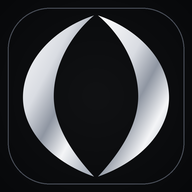
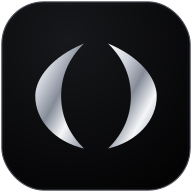
Add files via upload

diff --git a/app.js b/app.js
@@ -73,7 +73,7 @@
     const ownPosts=socialPosts.filter(p=>p.uid===currentUser.uid);
     const xp=data.workouts.length*35+data.steps.reduce((a,x)=>a+Math.floor(Number(x.count||0)/1000),0)+data.foods.length*5;
     const level=Math.max(1,Math.floor(xp/100)+1),next=level*100,progress=xp%100;
-    if(tab==='home'){const allFeedPosts=homeFeedMode==='following'?socialPosts.filter(p=>p.uid===currentUser.uid||socialFollowing.includes(p.uid)):socialPosts;const feedPosts=allFeedPosts.slice(0,feedVisibleCount);const emptyFeed=`<div class="home-empty"><span>✳</span><strong>Seu feed está começando</strong><p>${homeFeedMode==='following'?'Quando você seguir pessoas, as publicações delas aparecerão aqui.':'Explore a comunidade ou seja a primeira pessoa a compartilhar uma conquista.'}</p><button class="btn primary" data-social-tab="explore">Descobrir pessoas</button></div>`;const people=[];const seenPeople=new Set();for(const post of socialPosts){if(!post.uid||seenPeople.has(post.uid))continue;seenPeople.add(post.uid);people.push(post);if(people.length>=12)break}const stories=`<section class="home-people"><div class="home-people-title"><div><span class="home-eyebrow muted">GENTE QUE INSPIRA</span><h3>Pessoas e novidades</h3></div><button class="home-see-all" data-social-tab="explore">Explorar</button></div><div class="home-people-strip"><button class="home-person home-person-create" data-social-tab="compose"><span class="home-person-ring own"><span class="home-person-plus">＋</span></span><small>Sua jornada</small></button>${people.map(p=>`<button class="home-person" data-view-profile="${esc(p.uid)}"><span class="home-person-ring ${socialFollowing.includes(p.uid)?'followed':''}">${socialAvatar(p.photoURL,p.displayName,52)}</span><small>${esc((p.displayName||'Pessoa').split(' ')[0])}</small></button>`).join('')}${people.length===0?`<button class="home-person" data-social-tab="explore"><span class="home-person-ring followed"><span class="home-person-plus">⌕</span></span><small>Encontrar gente</small></button>`:''}</div></section>`;return `<section class="home-hero"><div class="home-hero-copy"><span class="home-eyebrow"><span class="home-live-dot"></span> EQUILÍBRIO · COMUNIDADE</span><h2>Um passo de cada vez.<br><em>Uma vida em equilíbrio.</em></h2><p>Inspire-se, compartilhe sua jornada e evolua junto.</p><button class="btn primary home-create" data-social-tab="compose"><span>＋</span> Compartilhar evolução</button></div><div class="home-hero-orbit" aria-hidden="true"><span>e</span></div></section>${stories}<div class="home-module-row"><button class="home-module" data-tab="finance"><span class="home-module-icon">↗</span><span>Finanças</span></button><button class="home-module" data-tab="food"><span class="home-module-icon">◉</span><span>Alimentação</span></button><button class="home-module" data-tab="fitness"><span class="home-module-icon">⌁</span><span>Treinos</span></button></div><div class="home-feed-heading"><div><span class="home-eyebrow muted">SUA COMUNIDADE</span><h3>Feed</h3></div><button class="home-refresh" data-social-refresh aria-label="Atualizar feed" title="Atualizar feed">↻</button></div><div class="home-feed-switch" role="group" aria-label="Filtro do feed"><button class="${homeFeedMode==='for-you'?'active':''}" data-home-feed="for-you">Para você</button><button class="${homeFeedMode==='following'?'active':''}" data-home-feed="following">Seguindo</button></div>${feedPosts.length?feedPosts.map(post=>socialPostHTML(post)).join(''):emptyFeed}${allFeedPosts.length>feedVisibleCount?`<div class="home-feed-more"><button class="btn" data-feed-more>Ver mais publicações</button></div>`:''}`;}
+    if(tab==='home'){const allFeedPosts=homeFeedMode==='following'?socialPosts.filter(p=>p.uid===currentUser.uid||socialFollowing.includes(p.uid)):socialPosts;const feedPosts=allFeedPosts.slice(0,feedVisibleCount);const emptyFeed=`<div class="home-empty"><span>✳</span><strong>Seu feed está começando</strong><p>${homeFeedMode==='following'?'Quando você seguir pessoas, as publicações delas aparecerão aqui.':'Explore a comunidade ou seja a primeira pessoa a compartilhar uma conquista.'}</p><button class="btn primary" data-social-tab="explore">Descobrir pessoas</button></div>`;const people=[];const seenPeople=new Set();for(const post of socialPosts){if(!post.uid||seenPeople.has(post.uid))continue;seenPeople.add(post.uid);people.push(post);if(people.length>=12)break}const stories=`<section class="home-people"><div class="home-people-title"><div><span class="home-eyebrow muted">GENTE QUE INSPIRA</span><h3>Pessoas e novidades</h3></div><button class="home-see-all" data-social-tab="explore">Explorar</button></div><div class="home-people-strip"><button class="home-person home-person-create" data-social-tab="compose"><span class="home-person-ring own"><span class="home-person-plus">＋</span></span><small>Sua jornada</small></button>${people.map(p=>`<button class="home-person" data-view-profile="${esc(p.uid)}"><span class="home-person-ring ${socialFollowing.includes(p.uid)?'followed':''}">${socialAvatar(p.photoURL,p.displayName,52)}</span><small>${esc((p.displayName||'Pessoa').split(' ')[0])}</small></button>`).join('')}${people.length===0?`<button class="home-person" data-social-tab="explore"><span class="home-person-ring followed"><span class="home-person-plus">⌕</span></span><small>Encontrar gente</small></button>`:''}</div></section>`;return `<section class="home-hero"><div class="home-hero-copy"><span class="home-eyebrow"><span class="home-live-dot"></span> OAXO · SUA EVOLUÇÃO</span><h2>Sua evolução.<br><em>Em todas as áreas da vida.</em></h2><p>Acompanhe suas metas, cuide dos hábitos e avance com clareza.</p><button class="btn primary home-create" data-social-tab="compose"><span>＋</span> Compartilhar evolução</button></div><div class="home-hero-orbit" aria-hidden="true"><span>e</span></div></section>${stories}<div class="home-module-row"><button class="home-module" data-tab="finance"><span class="home-module-icon">↗</span><span>Finanças</span></button><button class="home-module" data-tab="food"><span class="home-module-icon">◉</span><span>Alimentação</span></button><button class="home-module" data-tab="fitness"><span class="home-module-icon">⌁</span><span>Treinos</span></button></div><div class="home-feed-heading"><div><span class="home-eyebrow muted">SUA COMUNIDADE</span><h3>Feed</h3></div><button class="home-refresh" data-social-refresh aria-label="Atualizar feed" title="Atualizar feed">↻</button></div><div class="home-feed-switch" role="group" aria-label="Filtro do feed"><button class="${homeFeedMode==='for-you'?'active':''}" data-home-feed="for-you">Para você</button><button class="${homeFeedMode==='following'?'active':''}" data-home-feed="following">Seguindo</button></div>${feedPosts.length?feedPosts.map(post=>socialPostHTML(post)).join(''):emptyFeed}${allFeedPosts.length>feedVisibleCount?`<div class="home-feed-more"><button class="btn" data-feed-more>Ver mais publicações</button></div>`:''}`;}
     if(tab==='about')return aboutHTML();
     if(tab==='compose')return `<div class="card"><h2>Compartilhe sua evolução</h2><p class="muted">Compartilhe uma refeição, treino ou conquista. Você escolhe a visibilidade da publicação; perfil privado limita o acesso aos seguidores aprovados.</p><form id="socialPostForm" class="form"><div class="field full"><label>Foto para compartilhar fora do OAXO (opcional)</label><input name="image" id="socialPostImage" type="file" accept="image/*" capture="environment"><small class="muted">A foto fica somente no aparelho. Ela não será armazenada no Equilíbrio; use o botão abaixo para gerar uma arte e compartilhar no Instagram ou WhatsApp.</small><img id="socialPostPreview" class="social-post-preview hidden" alt="Prévia local da foto"></div><div class="field full"><label>Legenda</label><textarea name="caption" rows="3" maxlength="1500" placeholder="Como foi sua evolução hoje?" required></textarea></div><div class="field"><label>Categoria</label><select name="category"><option value="evolucao">Minha evolução</option><option value="alimentacao">Alimentação</option><option value="treino">Academia / treino</option><option value="exercicio">Exercício</option><option value="conquista">Conquista</option></select></div><div class="field"><label>Visibilidade desta publicação</label><select name="visibility"><option value="profile">Seguir privacidade do perfil</option><option value="public">Pública</option><option value="followers">Seguidores aprovados</option></select></div><div class="field full"><button class="btn primary" type="submit">Publicar texto no feed</button><button class="btn" type="button" data-share-art>Gerar arte e compartilhar foto</button><p id="socialPostStatus" class="muted" role="status"></p><p class="muted">O feed guarda texto. Para fotos, o Equilíbrio gera uma arte no próprio aparelho e abre o compartilhamento quando compatível; caso contrário, baixa a imagem para você publicar manualmente.</p></div></form></div>`;
     if(tab==='evolution')return `<div class="social-welcome"><div><small>SUA EVOLUÇÃO</small><h2>Ninguém evolui por você.</h2><p>Pequenas ações registradas viram progresso ao longo do tempo.</p></div>${socialAvatar(socialProfile?.photoURL||currentUser.photoURL,socialProfile?.displayName||currentUser.displayName,58)}</div><div class="social-profile-stats"><div><strong>${level}</strong><span>Nível</span></div><div><strong>${xp}</strong><span>XP estimado</span></div><div><strong>${data.workouts.length}</strong><span>Treinos</span></div></div><div class="game-card card social-game"><div class="section-title"><div><small>PRÓXIMO NÍVEL</small><h3>Nível ${level+1}</h3></div><div class="game-xp">${progress}/100 XP</div></div><div class="game-track"><div class="game-fill" style="width:${progress}%"></div></div><div class="social-achievements"><button class="btn" data-social-detail="training">🏋 Treinos <strong>${data.workouts.length}</strong></button><button class="btn" data-social-detail="food">🥗 Alimentação <strong>${data.foods.length}</strong></button><button class="btn" data-social-detail="steps">👟 Passos <strong>${data.steps.reduce((a,x)=>a+Number(x.count||0),0).toLocaleString('pt-BR')}</strong></button><button class="btn" data-social-detail="achievements">🏆 Conquistas <strong>${Math.floor(xp/100)}</strong></button></div></div><div class="card"><h3>Compartilhar meu dia</h3><p class="muted">Gere uma arte com o resumo da sua evolução. Os dados financeiros e registros detalhados não entram na imagem.</p><textarea id="socialShareCaption" rows="3" maxlength="500">Hoje dei mais um passo na minha evolução! ${data.workouts.filter(x=>x.date===today()).length} treino(s) registrado(s), ${data.steps.filter(x=>x.date===today()).reduce((a,x)=>a+Number(x.count||0),0).toLocaleString('pt-BR')} passos e foco em continuar.</textarea><div class="actions"><button class="btn primary" data-share-art>Gerar arte para Instagram/WhatsApp</button><button class="btn" data-tab="fitness">Registrar treino</button></div></div><div class="card"><h3>Seus módulos pessoais</h3><div class="social-shortcuts"><button class="btn" data-tab="finance">💰 Finanças</button><button class="btn" data-tab="food">🥗 Alimentação</button><button class="btn" data-tab="fitness">🏋 Treinos</button></div><p class="muted">Esses registros são privados e não são publicados automaticamente no feed.</p></div>`;

diff --git a/index.html b/index.html
@@ -163,6 +163,14 @@
 .oaxo-symbol{width:82%!important;height:82%!important;overflow:visible!important;filter:drop-shadow(0 0 3px #e7e9ef35)!important;}
 .oaxo-symbol path{fill:#c8ccd4!important;stroke:#f7f8fa!important;stroke-width:.7!important;}
 .auth-logo.oaxo-emblem .oaxo-symbol{width:84%!important;height:84%!important;}
+
+/* OAXO v9 — home screen aligned with the approved black/metallic-silver brand board */
+.home-module-row{gap:12px!important}
+.home-module{background:linear-gradient(145deg,#171719,#09090a)!important;border:1px solid #34363d!important;color:#f2f3f5!important;box-shadow:inset 0 1px 0 #ffffff0b,0 8px 24px #0005!important}
+.home-module-icon{background:linear-gradient(145deg,#e5e7eb,#8e95a1)!important;color:#080809!important;border:1px solid #f4f5f7!important}
+.home-hero-orbit{filter:grayscale(1)!important;opacity:.8}
+.home-feed-heading,.home-module-row{color:#eceef2}
+
 </style>
 </head>
 <body>
@@ -170,8 +178,8 @@
   <div class="oaxo-splash-content">
     <svg class="oaxo-splash-symbol" viewBox="0 0 100 100" aria-hidden="true">
       <defs><linearGradient id="oaxoSplashSilver" x1="0" y1="0" x2="0.85" y2="1"><stop offset="0%" stop-color="#ffffff"/><stop offset="35%" stop-color="#d9dce2"/><stop offset="55%" stop-color="#8f96a2"/><stop offset="75%" stop-color="#f4f5f7"/><stop offset="100%" stop-color="#aeb4bf"/></linearGradient></defs>
-      <path d="M49 8 C28 15 13 31 12 49 C11 67 26 84 49 92 C36 78 28 64 28 50 C28 35 36 19 49 8 Z"/>
-      <path d="M51 8 C72 15 87 31 88 49 C89 67 74 84 51 92 C64 78 72 64 72 50 C72 35 64 19 51 8 Z"/>
+      <path d="M43 13 C20 24 11 39 11 50 C11 65 23 80 43 87 C31 72 27 62 27 50 C27 38 32 26 43 13Z"/>
+      <path d="M57 13 C80 24 89 39 89 50 C89 65 77 80 57 87 C69 72 73 62 73 50 C73 38 68 26 57 13Z"/>
     </svg>
     <div class="oaxo-splash-wordmark">OAXO</div>
     <div class="oaxo-splash-tagline">Sua vida, em evolução.</div>
@@ -183,7 +191,7 @@
 
 <section id="authGate" class="auth-gate checking" aria-label="Acesso ao OAXO">
   <div class="auth-card">
-    <div class="auth-logo oaxo-emblem" aria-label="Símbolo OAXO"><svg class="oaxo-symbol" viewBox="0 0 100 100" aria-hidden="true"><path d="M49 8 C28 15 13 31 12 49 C11 67 26 84 49 92 C36 78 28 64 28 50 C28 35 36 19 49 8 Z"/><path d="M51 8 C72 15 87 31 88 49 C89 67 74 84 51 92 C64 78 72 64 72 50 C72 35 64 19 51 8 Z"/></svg></div>
+    <div class="auth-logo oaxo-emblem" aria-label="Símbolo OAXO"><svg class="oaxo-symbol" viewBox="0 0 100 100" aria-hidden="true"><path d="M43 13 C20 24 11 39 11 50 C11 65 23 80 43 87 C31 72 27 62 27 50 C27 38 32 26 43 13Z"/><path d="M57 13 C80 24 89 39 89 50 C89 65 77 80 57 87 C69 72 73 62 73 50 C73 38 68 26 57 13Z"/></svg></div>
     <h2>Bem-vindo ao OAXO</h2>
     <p class="muted">Entre com sua conta Google para acessar suas finanças, alimentação e treinos.</p>
     <div class="notice"><strong>Seus registros são sincronizados com sua conta.</strong><br>Os lançamentos são guardados neste aparelho e enviados ao Firebase para que você possa acessar em outros dispositivos. As regras de segurança restringem o acesso à sua conta Google.</div>
@@ -206,7 +214,7 @@
   </div>
 </div>
 <div class="wrap">
-  <header class="top"><div class="brand"><div class="logo oaxo-emblem" aria-label="Símbolo OAXO"><svg class="oaxo-symbol" viewBox="0 0 100 100" aria-hidden="true"><path d="M49 8 C28 15 13 31 12 49 C11 67 26 84 49 92 C36 78 28 64 28 50 C28 35 36 19 49 8 Z"/><path d="M51 8 C72 15 87 31 88 49 C89 67 74 84 51 92 C64 78 72 64 72 50 C72 35 64 19 51 8 Z"/></svg></div><div><h1>OAXO</h1><p>Sua vida, em evolução.</p></div></div><div class="account-actions"><span id="accountLabel" class="account-label"></span><button class="btn smallbtn hidden" id="logoutBtn" type="button">Sair</button><button class="btn" id="themeBtn" aria-label="Alternar tema">☾ Tema</button></div></header>
+  <header class="top"><div class="brand"><div class="logo oaxo-emblem" aria-label="Símbolo OAXO"><svg class="oaxo-symbol" viewBox="0 0 100 100" aria-hidden="true"><path d="M43 13 C20 24 11 39 11 50 C11 65 23 80 43 87 C31 72 27 62 27 50 C27 38 32 26 43 13Z"/><path d="M57 13 C80 24 89 39 89 50 C89 65 77 80 57 87 C69 72 73 62 73 50 C73 38 68 26 57 13Z"/></svg></div><div><h1>OAXO</h1><p>Sua vida, em evolução.</p></div></div><div class="account-actions"><span id="accountLabel" class="account-label"></span><button class="btn smallbtn hidden" id="logoutBtn" type="button">Sair</button><button class="btn" id="themeBtn" aria-label="Alternar tema">☾ Tema</button></div></header>
   <nav class="tabs social-tabs" aria-label="Navegação principal"><button class="tab active" data-tab="home"><span class="nav-icon">⌂</span>Início</button><button class="tab" data-tab="explore"><span class="nav-icon">⌕</span>Explorar</button><button class="tab" data-tab="compose"><span class="nav-icon nav-plus">＋</span>Publicar</button><button class="tab" data-tab="evolution"><span class="nav-icon">✦</span>Evolução</button><button class="tab" data-tab="profile"><span class="nav-icon">♙</span>Perfil</button></nav>
   <main id="app"></main>
   <nav class="mobile-social-nav" aria-label="Navegação principal"><button data-tab="home" aria-label="Início"><span class="nav-icon">⌂</span><small>Início</small></button><button data-tab="explore" aria-label="Explorar"><span class="nav-icon">⌕</span><small>Explorar</small></button><button data-tab="compose" aria-label="Publicar"><span class="nav-icon nav-plus">＋</span><small>Publicar</small></button><button data-tab="evolution" aria-label="Evolução"><span class="nav-icon">✦</span><small>Evolução</small></button><button data-tab="profile" aria-label="Perfil"><span class="nav-icon">♙</span><small>Perfil</small></button></nav>

diff --git a/sw.js b/sw.js
@@ -1,4 +1,4 @@
-const CACHE_NAME = 'oaxo-v7-welmi-food';
+const CACHE_NAME = 'oaxo-v9-black-silver-home';
 const APP_PREFIX = 'equilibrio-';
 const CORE_FILES = ['./', './index.html', './app.js', './manifest.json', './icon-192.png', './icon-512.png'];
 
